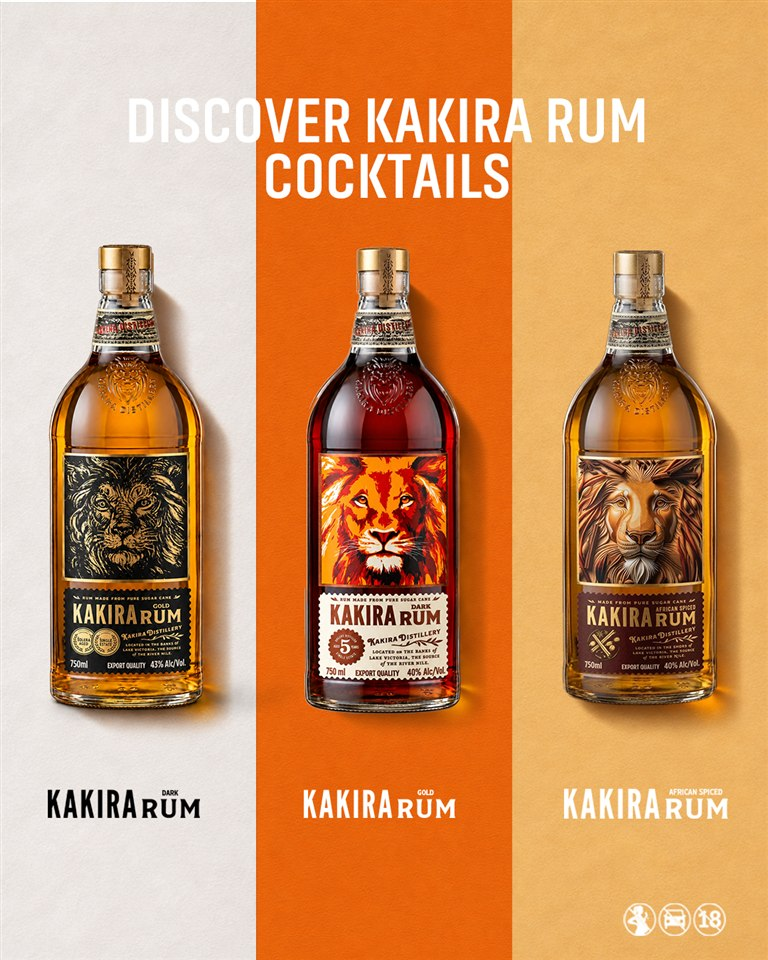
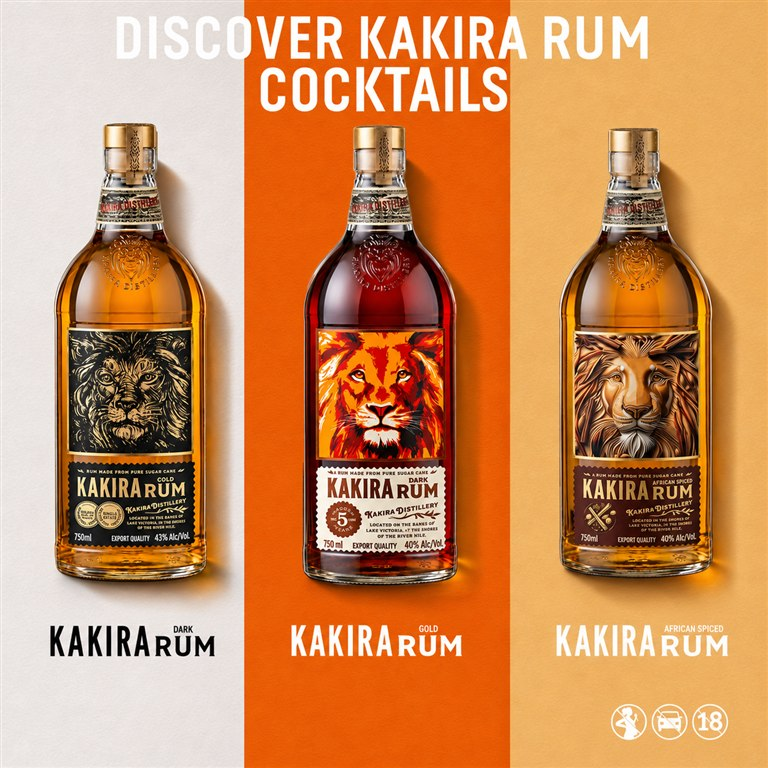
Use square Kakira Rum art directly on the cube

diff --git a/idea-box.html b/idea-box.html
@@ -64,19 +64,13 @@
       <template class="idea-cube-artworks">
             <button class="idea-tile" type="button" data-artwork="06" aria-label="View artwork 06"><img decoding="async" src="assets/exploration-06-thumb.webp" data-preview-src="assets/exploration-06.webp" alt="Visual exploration 06"></button>
             <button class="idea-tile" type="button" data-artwork="08" aria-label="View artwork 08"><img decoding="async" src="assets/exploration-08-thumb.webp" data-preview-src="assets/exploration-08.webp" alt="Visual exploration 08"></button>
-            <button class="idea-tile" type="button" data-artwork="09" aria-label="View Kakira Rum"><img decoding="async" src="assets/kakira-rum-cube.jpg" width="768" height="960" alt="Kakira Rum cocktail campaign featuring three bottles against cream, orange, and gold panels"></button>
+            <button class="idea-tile" type="button" data-artwork="09" aria-label="View Kakira Rum"><img decoding="async" src="assets/kakira-rum-cube.jpg" width="768" height="768" alt="Kakira Rum cocktail campaign featuring three bottles against cream, orange, and gold panels"></button>
       </template>
     </section>
     <aside class="idea-project" aria-label="Idea Box projects">
       <ul class="idea-project-list"></ul>
     </aside>
   </main>
-  <dialog id="kakira-rum-preview" class="idea-artwork-dialog idea-artwork-dialog--fullscreen" aria-label="Kakira Rum artwork">
-    <img class="idea-preview" src="assets/kakira-rum-cube.jpg" width="768" height="960" alt="Kakira Rum cocktail campaign featuring three bottles against cream, orange, and gold panels">
-    <form method="dialog">
-      <button class="idea-preview-close" type="submit" aria-label="Close artwork" autofocus>×</button>
-    </form>
-  </dialog>
   <footer><a class="frame-signature" href="index.html">Nsubuga John Paul</a><a class="footer-email" href="mailto:hello@nsubugajp.com"><span class="footer-email-label">For Inquiries</span> hello@nsubugajp.com</a></footer>
 </body>
 </html>

diff --git a/script.js b/script.js
@@ -104,7 +104,6 @@ if (ideaBoard) {
     '09': ['Kakira Rum', 'A social campaign artwork featuring three Kakira Rum bottles.'],
   };
   const projectList = document.querySelector('.idea-project-list');
-  const kakiraPreview = document.querySelector('#kakira-rum-preview');
   const tiles = ideaBoard.querySelectorAll('.idea-tile');
   const cube = ideaBoard.querySelector('.idea-cube');
   const cubeFaces = [...cube.querySelectorAll('.idea-cube-face')];
@@ -378,24 +377,13 @@ if (ideaBoard) {
       selectionAnimation.onfinish = resumeCube;
     }
 
-    function selectArtwork() {
-      turnToArtwork();
-      if (id !== '09') return;
-      if (typeof kakiraPreview.showModal === 'function') kakiraPreview.showModal();
-      else location.assign(kakiraPreview.querySelector('img').src);
-    }
-
-    if (id === '09') {
-      button.setAttribute('aria-haspopup', 'dialog');
-      tile.setAttribute('aria-haspopup', 'dialog');
-    }
     if (isMiddleCycle && cycleIndex < allTiles.length) {
       tile.setAttribute('aria-label', 'View ' + label);
       tile.addEventListener('pointerenter', () => highlightProject(button));
       tile.addEventListener('focus', () => highlightProject(button));
-      tile.addEventListener('click', selectArtwork);
+      tile.addEventListener('click', turnToArtwork);
     }
-    button.addEventListener('click', selectArtwork);
+    button.addEventListener('click', turnToArtwork);
   });
 
   const firstMiddleItem = projectList.children[middleCycle * wheelTiles.length];

diff --git a/idea-box.css b/idea-box.css
@@ -156,38 +156,6 @@ body.page-idea > .idea-background-stage { position:absolute; z-index:0; left:0; 
 
 .page-idea .idea-preview-close:focus-visible { outline:2px solid currentColor; outline-offset:2px; }
 
-.page-idea .idea-artwork-dialog--fullscreen:not([open]) { display:none; }
-
-.page-idea .idea-artwork-dialog--fullscreen {
-  position:fixed;
-  inset:0;
-  width:100%;
-  height:100%;
-  max-width:none;
-  max-height:none;
-  margin:0;
-  overflow:hidden;
-  background:#161616;
-}
-
-.page-idea .idea-artwork-dialog--fullscreen .idea-preview {
-  width:100%;
-  height:100%;
-  max-height:none;
-}
-
-.page-idea .idea-artwork-dialog--fullscreen .idea-preview-close {
-  position:absolute;
-  inset:1rem 1rem auto auto;
-  top:max(1rem, env(safe-area-inset-top));
-  right:max(1rem, env(safe-area-inset-right));
-  width:44px;
-  height:44px;
-  border-radius:50%;
-  background:rgb(0 0 0 / .8);
-  cursor:pointer;
-}
-
 @media (max-width:800px) {
   .page-idea .idea-board .explorations { grid-template-columns:repeat(4, minmax(0, 1fr)); }
 }
@@ -303,7 +271,6 @@ body.page-idea > .idea-background-stage { position:absolute; z-index:0; left:0; 
 }
 
 .page-idea .idea-cube-face .idea-tile img { object-fit: cover; }
-.page-idea .idea-cube-face .idea-tile[data-artwork="09"] img { object-fit: contain; }
 
 .idea-cube-grid {
   position: absolute;
